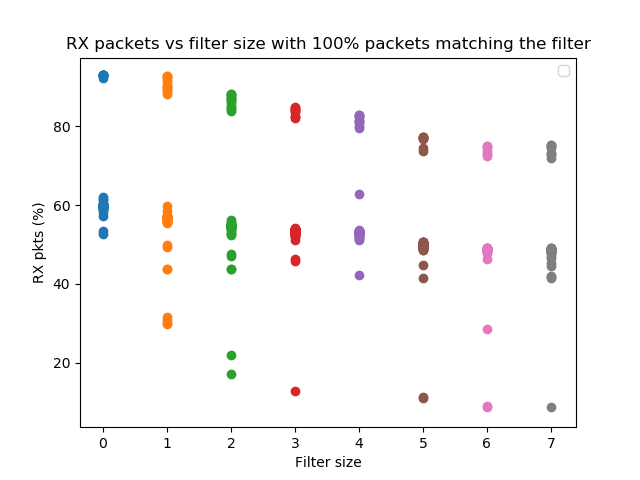
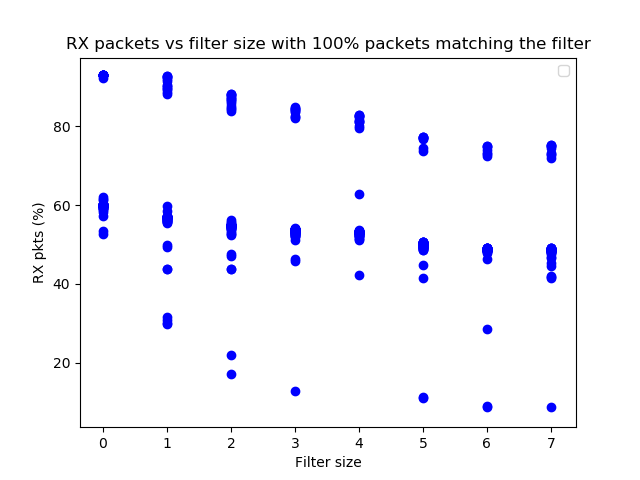
Color fixed for scatter images

diff --git a/filter_loss/plot.py b/filter_loss/plot.py
@@ -1,8 +1,10 @@
 import matplotlib.pyplot as plt
 from numpy import var, mean, sqrt
 
+METHOD = "moongen"
+
 # create data 
-file_name = "data/results_dump10_.txt"
+file_name = "data/%s/results_dump5_.txt" % METHOD
 
 scatter_cap = []
 cap = []
@@ -21,12 +23,12 @@ total_box = []
 SCATTER = True
 N = 50
 # value returned by parser.py
-x = [0, 1, 2, 3, 4, 5, 6, 7]
+x = [0, 1, 2, 3, 4, 5, 6]
 
 file = open(file_name, 'r')
 Lines = file.readlines()
 
-for i in range(8):
+for i in range(7):
     # Strips the newline character
     captured = 0
     filtered = 0
@@ -50,7 +52,7 @@ for i,j in zip(cap_box,filter_box):
 
 # basic plot
 
-for i in range(8):
+for i in range(7):
     sub_cap = cap_box[N*i:N*(i+1)]
     scatter_cap.append(tuple(sub_cap))
     sub_filter = filter_box[N*i:N*(i+1)]
@@ -77,10 +79,10 @@ for i in range(8):
 
 if SCATTER:
     for xe, ye in zip(x, scatter_cap):
-        plt.scatter([xe] * len(ye), ye)
+        plt.scatter([xe] * len(ye), ye, color = 'b')
 
-    plt.xticks([0,1,2,3,4,5,6,7])
-    plt.axes().set_xticklabels(['0','1','2','3','4','5','6','7'])
+    plt.xticks([0,1,2,3,4,5,6])
+    plt.axes().set_xticklabels(['0','1','2','3','4','5','6'])
 else:
     plt.plot(x, lower_cap, x, upper_cap, color='blue', alpha=0.1)
     plt.fill_between(x, lower_cap, upper_cap, where=upper_cap >= lower_cap, alpha=0.3, facecolor='blue', interpolate=True)
